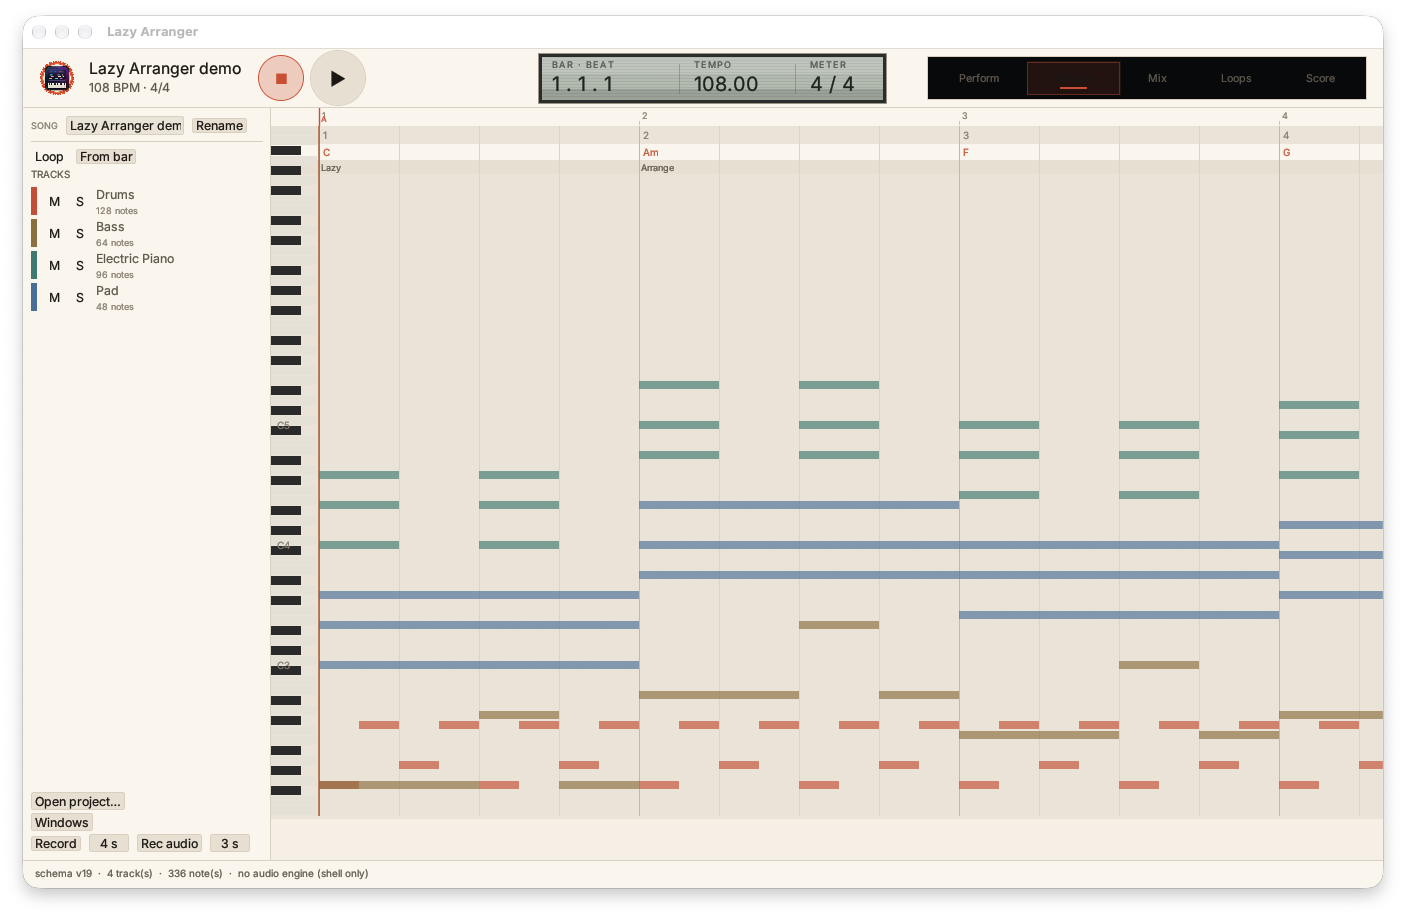
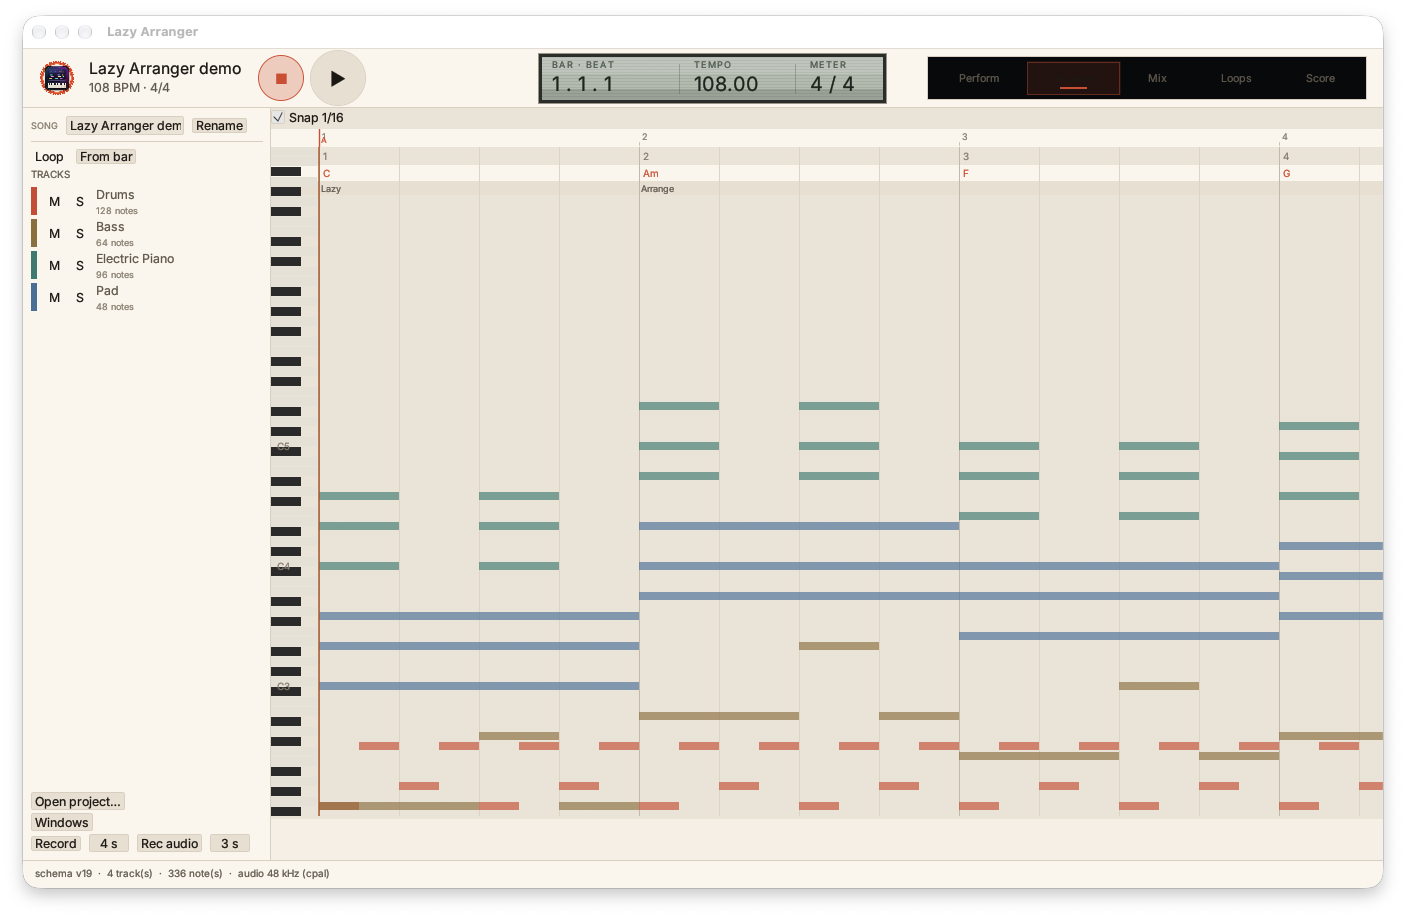
fix(desktop): report the real audio engine in the status bar
Replaces the stale no-audio-engine text with audio 48 kHz (cpal), adds a label
test and refreshes the light-theme capture.

636 tests pass; clippy, fmt and rustdoc clean; the shell ran 6 s without a
panic.

diff --git a/apps/desktop/src/app.rs b/apps/desktop/src/app.rs
@@ -159,6 +159,12 @@ pub fn theory_summary(song: &project::song::Song) -> Vec<String> {
     lines
 }
 
+/// Label for the built-in audio engine.
+#[must_use]
+pub fn audio_engine_label() -> String {
+    format!("audio {} kHz (cpal)", audio::SAMPLE_RATE / 1000)
+}
+
 /// Parses `lpstat -p` lines into printer names.
 #[must_use]
 pub fn printers_from_lpstat(text: &str) -> Vec<String> {
@@ -3996,7 +4002,12 @@ impl ShellApp {
             )
             .show(context, |ui| {
                 ui.horizontal(|ui| {
-                    let notes: usize = self.song().tracks.iter().map(|track| track.notes.len()).sum();
+                    let notes: usize = self
+                        .song()
+                        .tracks
+                        .iter()
+                        .map(|track| track.notes.len())
+                        .sum();
                     let issues = self.editor.project().validate();
                     let errors = issues
                         .iter()
@@ -4004,14 +4015,19 @@ impl ShellApp {
                         .count();
                     let label = if errors == 0 {
                         format!(
-                            "schema v{}  ·  {} track(s)  ·  {notes} note(s)  ·  no audio engine (shell only)",
+                            "schema v{}  ·  {} track(s)  ·  {notes} note(s)  ·  {}",
                             self.editor.project().version,
-                            self.song().tracks.len()
+                            self.song().tracks.len(),
+                            audio_engine_label()
                         )
                     } else {
                         format!("{errors} validation error(s)")
                     };
-                    ui.label(egui::RichText::new(label).size(10.0).color(if errors == 0 { theme::text_muted() } else { theme::recording() }));
+                    ui.label(egui::RichText::new(label).size(10.0).color(if errors == 0 {
+                        theme::text_muted()
+                    } else {
+                        theme::recording()
+                    }));
                     if let Some(status) = &self.status {
                         ui.label(
                             egui::RichText::new(status)
@@ -5226,6 +5242,14 @@ mod tests {
         assert!(lines.iter().any(|line| line.starts_with("Cadence:")));
         let empty = project::song::Song::new("Empty", 120.0);
         assert_eq!(theory_summary(&empty)[2], "No chords yet");
+    }
+
+    #[test]
+    fn the_audio_engine_label_is_accurate() {
+        let label = audio_engine_label();
+        assert!(label.contains("48 kHz"), "{label}");
+        assert!(label.contains("cpal"), "{label}");
+        assert!(!label.contains("no audio engine"));
     }
 
     #[test]

diff --git a/docs/audit/parity.md b/docs/audit/parity.md
@@ -139,7 +139,7 @@ plurals, a real AI model and speech input.
 | Retrigger on section change | typed, not acted on | missing | ADR-003 |
 | Notation/score engraving | `score`, `score_view`, `pdf`, `musicxml` | verified | layout/ties/beams/tuplets/grand-staff/rest/slur/percussion/lyric/accidental/rhythmic-spacing/dots/dotted-rests/frame/chord-symbol/PDF tests; slurs round-trip; Save PDF, Print via lp (unverified), score drag-move/Shift-resize; PDF/canvas checks, four-measure systems and a headless canvas-text test |
 | Perform view (Now/Next, chord pads) | `apps/desktop` | implemented | capture checked (`docs/audit/perform.png`); pad audition manual |
-| UI shell (Perform/Arrange/Mix) with dark/light palettes | `apps/desktop` | implemented | palette test; light screenshot `docs/audit/light-theme.png`; header overlap fixed; sidebar menu |
+| UI shell (Perform/Arrange/Mix) with dark/light palettes | `apps/desktop` | implemented | palette test; refreshed light screenshot `docs/audit/light-theme.png`; audio status accurate |
 | Audio playback | `audio` | implemented | cpal; audible check pending |
 | WAV/offline render | `audio` | verified | 5.36 s real-style render |
 | Device profile voice matching | `midi-devices::profiles` | partial | PSR-S970 subset + keyword fallback; EP/Rhodes mapping; 3 tests |

diff --git a/docs/architecture/contracts.md b/docs/architecture/contracts.md
@@ -881,3 +881,9 @@ through the existing Editor grid methods.
 `printers_from_lpstat` parses `printer NAME ...` lines; the Score view queries
 `lpstat -p` once and offers a Default/printer combo. Print adds `lp -d NAME`
 when one is chosen. The parser has a unit test; no job was sent.
+
+### Audio status label
+
+The status bar reports `audio 48 kHz (cpal)` instead of the stale
+`no audio engine (shell only)` claim; the schema/track/note counts stay. The
+refreshed light-theme capture is `docs/audit/light-theme.png`.
